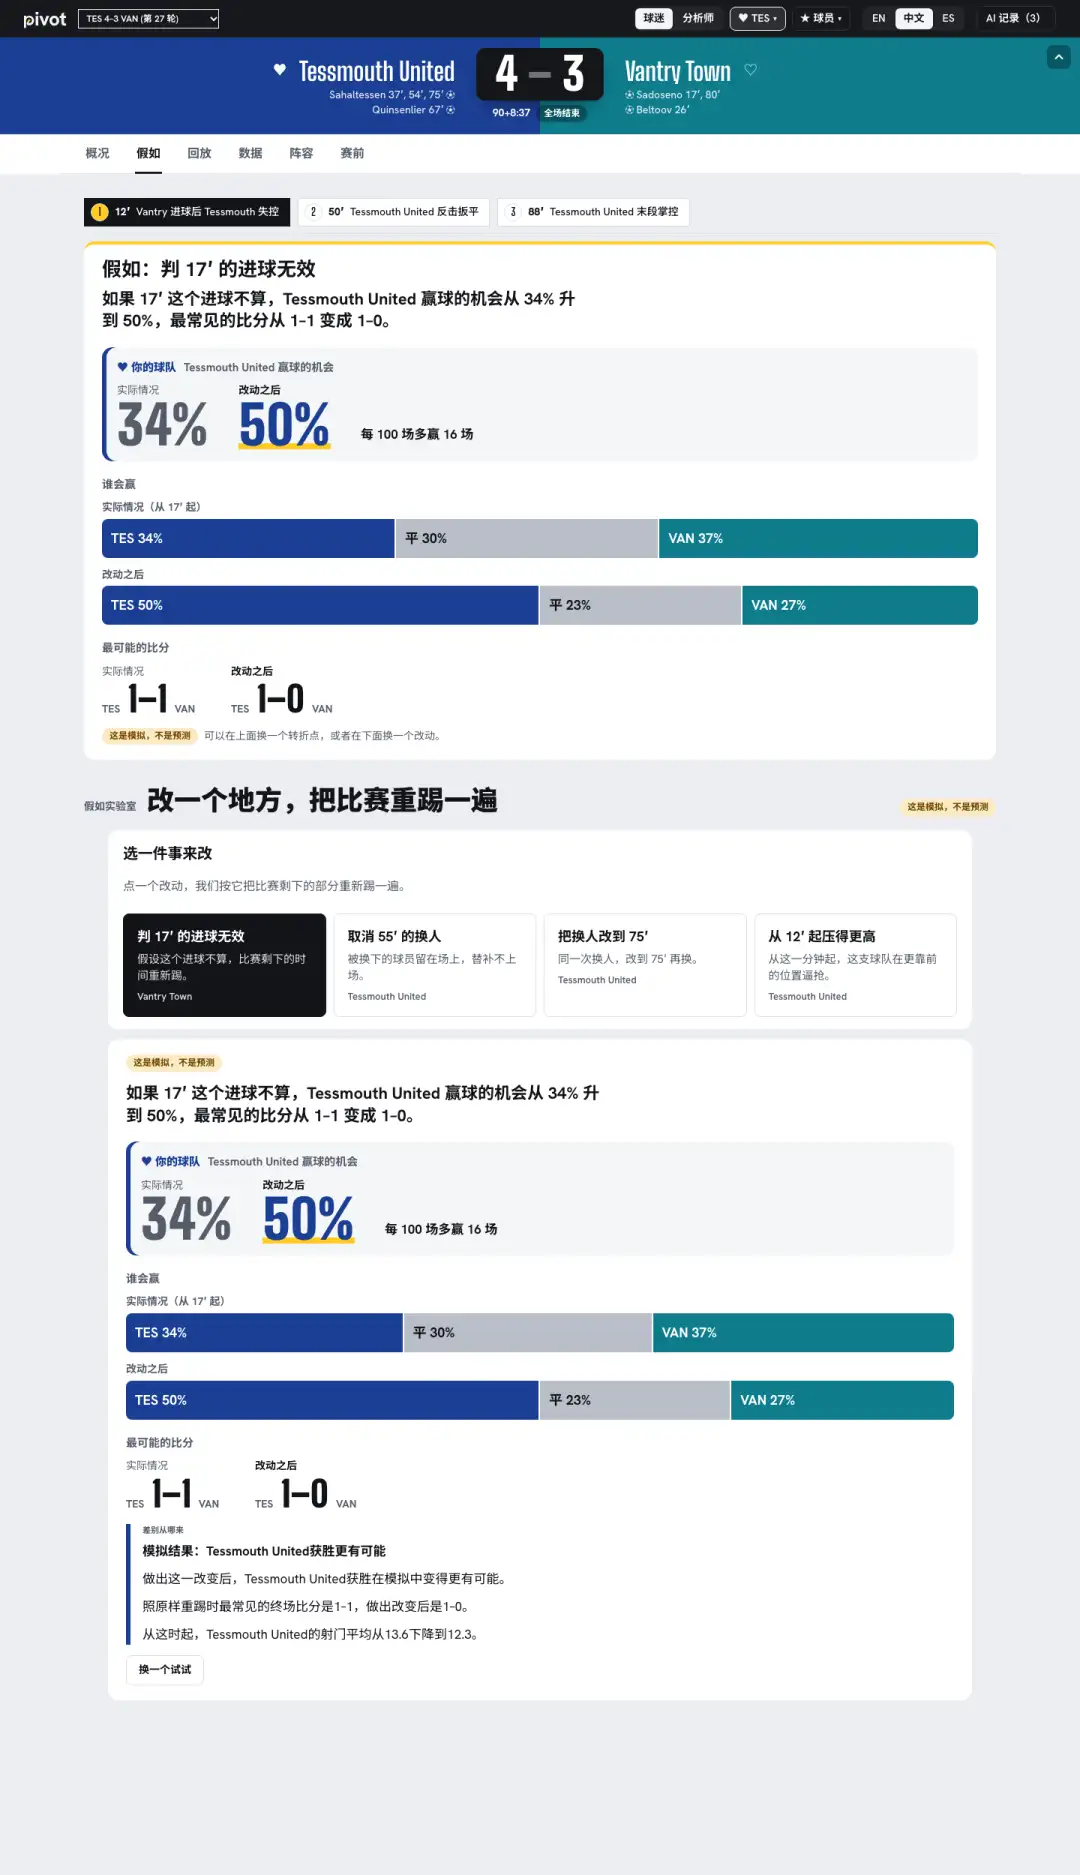
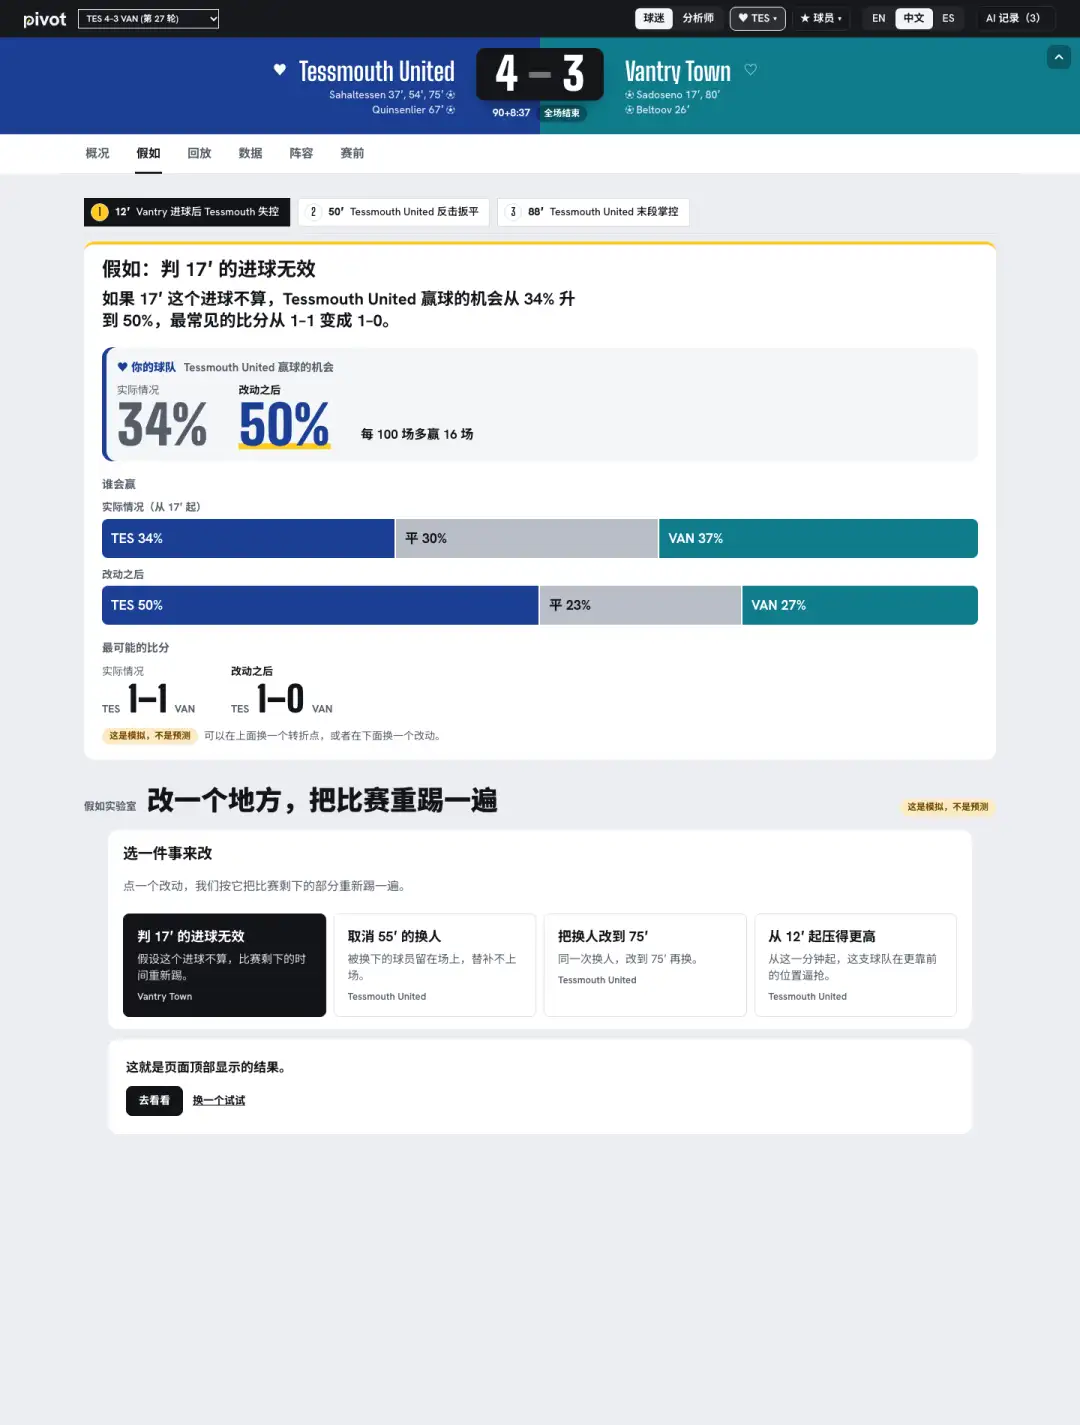
Ax91: fan lab points to the answer above instead of repeating it; fans read one line of the comparison
In fan mode, a lab result for the same scenario as the tab's first answer
shows "This is the answer shown at the top of the page" with a button that
scrolls to it; another change shows in full. Fans get the comparison's
headline and first sentence; analysts keep the whole text.

diff --git a/apps/web/src/pages/match/WhatIfTab.tsx b/apps/web/src/pages/match/WhatIfTab.tsx
@@ -22,6 +22,8 @@ export function WhatIfTab({ moments, open, onPick }: { moments: Pivot[]; open: P
   // Ax77: the turning-point chips stick under the tabs.
   const row = useHeightVar("--pv-sub-h");
   const pivot = open ?? moments[0] ?? null;
+  // Ax91: the scenario the first answer shows, so a fan's lab does not show it a second time.
+  const [shown, setShown] = useState<string | null>(null);
   if (!pivot) return <p className="muted">{t("post.whatIfNone")}</p>;
   return (
     <>
@@ -37,9 +39,9 @@ export function WhatIfTab({ moments, open, onPick }: { moments: Pivot[]; open: P
           ))}
         </div>
       )}
-      <Featured key={`f-${pivot.pivot_id}`} pivot={pivot} source={source} />
+      <Featured key={`f-${pivot.pivot_id}`} pivot={pivot} source={source} onShown={setShown} />
       <div className="wi-tab">
-        <Lab key={pivot.pivot_id} pivotId={pivot.pivot_id} source={source} />
+        <Lab key={pivot.pivot_id} pivotId={pivot.pivot_id} source={source} shownAbove={shown} />
       </div>
     </>
   );
@@ -53,13 +55,15 @@ const STRIKING: ScenarioOption["type"][] = ["remove_goal", "remove_red_card", "c
  * before the viewer picks anything. With a ♥ team it is the change that would have helped that team.
  * A result run ahead (Bx14) answers at once; otherwise the usual progress shows while it runs.
  */
-function Featured({ pivot, source }: { pivot: Pivot; source: ScenarioApi }) {
+function Featured({ pivot, source, onShown }: { pivot: Pivot; source: ScenarioApi; onShown: (id: string | null) => void }) {
   const { teams } = useMatch();
   const t = useT();
   const { side, fan } = usePersona();
   const minuteOf = useOptionMinute();
   const [option, setOption] = useState<ScenarioOption | null>(null);
   const { state, run } = useScenarioRun(source);
+  const shownId = state.phase === "done" ? state.scenario.scenario_id : null;
+  useEffect(() => onShown(shownId), [shownId, onShown]);
   useEffect(() => {
     let alive = true;
     source.options(pivot.pivot_id).then((opts) => {
@@ -78,7 +82,7 @@ function Featured({ pivot, source }: { pivot: Pivot; source: ScenarioApi }) {
   const change = optionLabel(option, t, undefined, minuteOf(option));
   return (
     <section className={`wi-feature ${fan ? "is-fan" : "is-an"}`} aria-labelledby="wi-feature-hd" aria-live="polite">
-      <h2 id="wi-feature-hd">{scoreDashes(t("wi.feature", { change }))}</h2>
+      <h2 id="wi-feature-hd" tabIndex={-1}>{scoreDashes(t("wi.feature", { change }))}</h2>
       {state.phase === "done" ? (
         <>
           <WhatIfAnswer scenario={state.scenario} change={change} minute={minuteOf(option)}

diff --git a/apps/web/src/pages/WhatIfLab.tsx b/apps/web/src/pages/WhatIfLab.tsx
@@ -10,7 +10,7 @@ import { RunFailed, RunProgress, ScenarioChips, ScenarioResult, meaningOf } from
 import { useClock } from "../data/clock";
 import { useFixture, useMatch } from "../data/match";
 import { mockScenarioApi } from "../data/scenarioMock";
-import { numberLocale } from "../data/motion";
+import { numberLocale, scrollBehavior } from "../data/motion";
 import { forYourTeam, usePersona } from "../data/persona";
 import {
   DEFAULT_RUNS, MOVE_RANGE, RUN_COUNTS, clockMinute, liveScenarioApi, optionLabel, useOptionMinute, useScenarioRun, type RunCount,
@@ -45,7 +45,11 @@ export function useScenarioSource(): ScenarioApi {
   return useMemo(() => (fixture ? mockScenarioApi(() => read.current) : liveScenarioApi), [fixture]);
 }
 
-export function Lab({ pivotId, source }: { pivotId: string; source: ScenarioApi }) {
+export function Lab({ pivotId, source, shownAbove = null }: {
+  pivotId: string; source: ScenarioApi;
+  /** The scenario the tab already shows above the lab (Ax91): a fan gets a pointer to it, not the same answer again. */
+  shownAbove?: string | null;
+}) {
   const { pivotDetail, teams, eventById } = useMatch();
   const { t } = usePrefs();
   const { minute } = useClock();
@@ -174,7 +178,21 @@ export function Lab({ pivotId, source }: { pivotId: string; source: ScenarioApi 
             {state.phase === "failed" && (
               <RunFailed error={state.error} onRetry={() => run(state.body, { fresh: true })} onReset={tryAnother} />
             )}
-            {state.phase === "done" && <ScenarioResult state={state} option={ranOption} teams={teams} onReset={tryAnother} source={source} />}
+            {state.phase === "done" && (state.scenario.scenario_id === shownAbove ? (
+              <div className="wi-fan-same">
+                <p>{t("wi.fan.sameAbove")}</p>
+                <div className="comp-row">
+                  <Button variant="primary" onClick={() => {
+                    const hd = document.getElementById("wi-feature-hd");
+                    hd?.scrollIntoView({ behavior: scrollBehavior(), block: "center" });
+                    hd?.focus({ preventScroll: true });
+                  }}>{t("wi.fan.seeAbove")}</Button>
+                  <Button variant="ghost" onClick={tryAnother}>{t("whatif.tryAnother")}</Button>
+                </div>
+              </div>
+            ) : (
+              <ScenarioResult state={state} option={ranOption} teams={teams} onReset={tryAnother} source={source} />
+            ))}
           </div>
         </div>
       ) : (

diff --git a/apps/web/src/components/WhatIf.tsx b/apps/web/src/components/WhatIf.tsx
@@ -717,7 +717,8 @@ export function ScenarioResult({ state, option, teams, onReset, source }: Result
   const change = option ? optionLabel(option, t, moveTo, minuteOf(option)) : scenario.spec.type;
   const { narrative, writing } = useComparisonIn(source, scenario, prefs.language);
   const served = narrativeLang(narrative);
-  const sentences = narrative?.sentences ?? [];
+  // Ax91: a fan reads the headline and the first line; the rest (often the template's shot counts) is an analyst's.
+  const sentences = (narrative?.sentences ?? []).slice(0, fan ? 1 : undefined);
   return (
     <div className="result">
       <div className="stamps">

diff --git a/apps/web/src/i18n/messages/es.ts b/apps/web/src/i18n/messages/es.ts
@@ -1587,4 +1587,6 @@ export const es: Messages = {
   "wi.fan.upDraw": "{n} empates más de cada 100 partidos",
   "wi.fan.downDraw": "{n} empates menos de cada 100 partidos",
   "wi.an.featureMore": "Ejecútalo en el laboratorio de abajo para ver los marcadores, las cifras de los equipos y cómo se hizo, o elige otro punto de inflexión arriba.",
+  "wi.fan.sameAbove": "Es la respuesta que aparece arriba en la página.",
+  "wi.fan.seeAbove": "Verla",
 };

diff --git a/apps/web/src/i18n/messages/en.ts b/apps/web/src/i18n/messages/en.ts
@@ -1586,4 +1586,6 @@ export const en = {
   "wi.fan.upDraw": "{n} more draws in every 100 matches",
   "wi.fan.downDraw": "{n} fewer draws in every 100 matches",
   "wi.an.featureMore": "Run it in the lab below for the scorelines, the team numbers and how it was run. Or pick another turning point above.",
+  "wi.fan.sameAbove": "This is the answer shown at the top of the page.",
+  "wi.fan.seeAbove": "Show me",
 };

diff --git a/apps/web/src/i18n/messages/zh.ts b/apps/web/src/i18n/messages/zh.ts
@@ -1585,4 +1585,6 @@ export const zh: Messages = {
   "wi.fan.upDraw": "每 100 场多平 {n} 场",
   "wi.fan.downDraw": "每 100 场少平 {n} 场",
   "wi.an.featureMore": "在下面的实验室里运行，可以看到比分分布、两队数据和计算方法；也可以在上面换一个转折点。",
+  "wi.fan.sameAbove": "这就是页面顶部显示的结果。",
+  "wi.fan.seeAbove": "去看看",
 };

diff --git a/apps/web/src/styles/whatif.css b/apps/web/src/styles/whatif.css
@@ -93,3 +93,5 @@
 .wi-feature-more { display: flex; flex-wrap: wrap; align-items: center; gap: 8px; }
 .wi-stats td.tm { text-align: left; }
 .wi-stats th[scope="rowgroup"] { width: 26%; }
+.wi-fan-same { display: grid; gap: 12px; padding: 4px 0; }
+.wi-fan-same p { margin: 0; font-weight: 600; font-size: 17px; }
